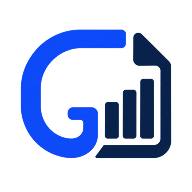
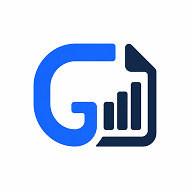
feat: main color 수정 및 pwa 사진 배경색 있는걸로 변경

diff --git a/src/theme/gudocs.js b/src/theme/gudocs.js
@@ -2,7 +2,7 @@
  * @generated by `astryx theme build` — do not edit manually.
  * Source: src\theme\gudocs-theme.ts
  * Command: astryx theme build src\theme\gudocs-theme.ts --out src\theme\gudocs-theme.css
- * Generated: 2026-07-20T07:44:10.546Z
+ * Generated: 2026-08-13T03:19:43.851Z
  */
 
 /**
@@ -96,31 +96,31 @@ export const gudocsTheme = {
     "--color-syntax-property": "light-dark(#005348, #83dac9)",
     "--color-syntax-punctuation": "light-dark(#a3a3a3, #525252)",
     "--color-syntax-background": "light-dark(#fafafa, #0a0a0a)",
-    "--color-background-surface": "light-dark(#FCFCFF, #1B1B22)",
-    "--color-background-body": "light-dark(#F0F0F9, #111018)",
-    "--color-background-card": "light-dark(#FCFCFF, #1B1B22)",
-    "--color-background-popover": "light-dark(#FCFCFF, #303037)",
-    "--color-background-muted": "light-dark(#1B1B220D, #1B1B2280)",
-    "--color-accent": "light-dark(#0064FF, #C2C0FF)",
+    "--color-background-surface": "light-dark(#FDFBFF, #1C1B21)",
+    "--color-background-body": "light-dark(#F1EFF9, #121017)",
+    "--color-background-card": "light-dark(#FDFBFF, #1C1B21)",
+    "--color-background-popover": "light-dark(#FDFBFF, #312F37)",
+    "--color-background-muted": "light-dark(#1C1B210D, #1C1B2180)",
+    "--color-accent": "light-dark(#1F4DF3, #C9BEFF)",
     "--color-accent-muted": "light-dark(color-mix(in srgb, var(--color-accent) 20%, transparent), color-mix(in srgb, var(--color-accent) 25%, transparent))",
-    "--color-neutral": "light-dark(#1B1B221A, #E2E1EB33)",
-    "--color-overlay": "light-dark(#1B1B2266, #1B1B2299)",
-    "--color-overlay-hover": "light-dark(#1B1B220D, #FFFFFF0D)",
-    "--color-overlay-pressed": "light-dark(#1B1B221A, #FFFFFF1A)",
+    "--color-neutral": "light-dark(#1C1B211A, #E3E1EB33)",
+    "--color-overlay": "light-dark(#1C1B2166, #1C1B2199)",
+    "--color-overlay-hover": "light-dark(#1C1B210D, #FFFFFF0D)",
+    "--color-overlay-pressed": "light-dark(#1C1B211A, #FFFFFF1A)",
     "--color-text-primary": "light-dark(#202632, #E2E1EB)",
-    "--color-text-secondary": "light-dark(#464552, #ABAAB8)",
-    "--color-text-disabled": "light-dark(#908F9D, #5E5D6A)",
+    "--color-text-secondary": "light-dark(#484552, #ACA9B8)",
+    "--color-text-disabled": "light-dark(#928F9D, #5F5D6A)",
     "--color-text-accent": "var(--color-accent)",
     "--color-on-dark": "#ffffff",
     "--color-on-light": "#171717",
-    "--color-on-accent": "light-dark(#FFFFFF, #002989)",
+    "--color-on-accent": "light-dark(#FFFFFF, #002298)",
     "--color-on-success": "light-dark(#ffffff, #171717)",
     "--color-on-error": "light-dark(#ffffff, #171717)",
     "--color-on-warning": "#171717",
     "--color-icon-accent": "var(--color-accent)",
-    "--color-icon-primary": "light-dark(#1B1B22, #E2E1EB)",
-    "--color-icon-secondary": "light-dark(#464552, #ABAAB8)",
-    "--color-icon-disabled": "light-dark(#908F9D, #5E5D6A)",
+    "--color-icon-primary": "light-dark(#1C1B21, #E3E1EB)",
+    "--color-icon-secondary": "light-dark(#484552, #ACA9B8)",
+    "--color-icon-disabled": "light-dark(#928F9D, #5F5D6A)",
     "--color-success": "light-dark(#007004, #9fe59b)",
     "--color-error": "light-dark(#a50c25, #ffc6c1)",
     "--color-warning": "light-dark(#745b00, #fdcf4f)",
@@ -129,7 +129,7 @@ export const gudocsTheme = {
     "--color-warning-muted": "light-dark(#f8da9d, #deb4333D)",
     "--color-border": "light-dark(#2026321A, #F0F0F91A)",
     "--color-border-emphasized": "light-dark(#20263259, #464552)",
-    "--color-skeleton": "light-dark(#ABAAB8, #464552)",
+    "--color-skeleton": "light-dark(#ACA9B8, #484552)",
     "--color-shadow": "light-dark(#0000001A, #0000004D)",
     "--color-tint-hover": "light-dark(black, white)",
     "--color-background-red": "light-dark(#facecb, #ff9e973D)",
@@ -186,8 +186,8 @@ export const gudocsTheme = {
     "--shadow-inset-success": "inset 0px 0px 0px 2px #1981004D",
     "--shadow-inset-warning": "inset 0px 0px 0px 2px #ffce2f4D",
     "--shadow-inset-error": "inset 0px 0px 0px 2px #e33f4a4D",
-    "--color-background-inverted": "light-dark(#1B1B22, #FCFCFF)",
-    "--color-track": "light-dark(#ABAAB8, #464552)",
+    "--color-background-inverted": "light-dark(#1C1B21, #FDFBFF)",
+    "--color-track": "light-dark(#ACA9B8, #484552)",
     "--radius-chat": "42px"
   },
 

diff --git a/src/theme/gudocs-theme.css b/src/theme/gudocs-theme.css
@@ -2,7 +2,7 @@
  * @generated by `astryx theme build` — do not edit manually.
  * Source: src\theme\gudocs-theme.ts
  * Command: astryx theme build src\theme\gudocs-theme.ts --out src\theme\gudocs-theme.css
- * Generated: 2026-07-20T07:44:10.546Z
+ * Generated: 2026-08-13T03:19:43.851Z
  */
 
 @layer reset {
@@ -163,31 +163,31 @@
     --color-syntax-property: light-dark(#005348, #83dac9);
     --color-syntax-punctuation: light-dark(#a3a3a3, #525252);
     --color-syntax-background: light-dark(#fafafa, #0a0a0a);
-    --color-background-surface: light-dark(#FCFCFF, #1B1B22);
-    --color-background-body: light-dark(#F0F0F9, #111018);
-    --color-background-card: light-dark(#FCFCFF, #1B1B22);
-    --color-background-popover: light-dark(#FCFCFF, #303037);
-    --color-background-muted: light-dark(#1B1B220D, #1B1B2280);
-    --color-accent: light-dark(#0064FF, #C2C0FF);
+    --color-background-surface: light-dark(#FDFBFF, #1C1B21);
+    --color-background-body: light-dark(#F1EFF9, #121017);
+    --color-background-card: light-dark(#FDFBFF, #1C1B21);
+    --color-background-popover: light-dark(#FDFBFF, #312F37);
+    --color-background-muted: light-dark(#1C1B210D, #1C1B2180);
+    --color-accent: light-dark(#1F4DF3, #C9BEFF);
     --color-accent-muted: light-dark(color-mix(in srgb, var(--color-accent) 20%, transparent), color-mix(in srgb, var(--color-accent) 25%, transparent));
-    --color-neutral: light-dark(#1B1B221A, #E2E1EB33);
-    --color-overlay: light-dark(#1B1B2266, #1B1B2299);
-    --color-overlay-hover: light-dark(#1B1B220D, #FFFFFF0D);
-    --color-overlay-pressed: light-dark(#1B1B221A, #FFFFFF1A);
+    --color-neutral: light-dark(#1C1B211A, #E3E1EB33);
+    --color-overlay: light-dark(#1C1B2166, #1C1B2199);
+    --color-overlay-hover: light-dark(#1C1B210D, #FFFFFF0D);
+    --color-overlay-pressed: light-dark(#1C1B211A, #FFFFFF1A);
     --color-text-primary: light-dark(#202632, #E2E1EB);
-    --color-text-secondary: light-dark(#464552, #ABAAB8);
-    --color-text-disabled: light-dark(#908F9D, #5E5D6A);
+    --color-text-secondary: light-dark(#484552, #ACA9B8);
+    --color-text-disabled: light-dark(#928F9D, #5F5D6A);
     --color-text-accent: var(--color-accent);
     --color-on-dark: #ffffff;
     --color-on-light: #171717;
-    --color-on-accent: light-dark(#FFFFFF, #002989);
+    --color-on-accent: light-dark(#FFFFFF, #002298);
     --color-on-success: light-dark(#ffffff, #171717);
     --color-on-error: light-dark(#ffffff, #171717);
     --color-on-warning: #171717;
     --color-icon-accent: var(--color-accent);
-    --color-icon-primary: light-dark(#1B1B22, #E2E1EB);
-    --color-icon-secondary: light-dark(#464552, #ABAAB8);
-    --color-icon-disabled: light-dark(#908F9D, #5E5D6A);
+    --color-icon-primary: light-dark(#1C1B21, #E3E1EB);
+    --color-icon-secondary: light-dark(#484552, #ACA9B8);
+    --color-icon-disabled: light-dark(#928F9D, #5F5D6A);
     --color-success: light-dark(#007004, #9fe59b);
     --color-error: light-dark(#a50c25, #ffc6c1);
     --color-warning: light-dark(#745b00, #fdcf4f);
@@ -196,7 +196,7 @@
     --color-warning-muted: light-dark(#f8da9d, #deb4333D);
     --color-border: light-dark(#2026321A, #F0F0F91A);
     --color-border-emphasized: light-dark(#20263259, #464552);
-    --color-skeleton: light-dark(#ABAAB8, #464552);
+    --color-skeleton: light-dark(#ACA9B8, #484552);
     --color-shadow: light-dark(#0000001A, #0000004D);
     --color-tint-hover: light-dark(black, white);
     --color-background-red: light-dark(#facecb, #ff9e973D);
@@ -253,8 +253,8 @@
     --shadow-inset-success: inset 0px 0px 0px 2px #1981004D;
     --shadow-inset-warning: inset 0px 0px 0px 2px #ffce2f4D;
     --shadow-inset-error: inset 0px 0px 0px 2px #e33f4a4D;
-    --color-background-inverted: light-dark(#1B1B22, #FCFCFF);
-    --color-track: light-dark(#ABAAB8, #464552);
+    --color-background-inverted: light-dark(#1C1B21, #FDFBFF);
+    --color-track: light-dark(#ACA9B8, #484552);
     --radius-chat: 42px;
   }
 

diff --git a/src/theme/gudocs-theme.ts b/src/theme/gudocs-theme.ts
@@ -14,7 +14,7 @@ import { neutralTheme } from "@astryxdesign/theme-neutral";
  * 그대로 쓰면 대비가 3.5:1까지 떨어져 본문 기준(4.5:1)에 미달한다.
  *
  * 대비 검증 (light):
- *   흰색 on #0064FF      → 4.92:1  (본문 AA 통과)
+ *   흰색 on #1F4DF3      → 6.15:1  (본문 AA 통과)
  *   #202632 on #FCFCFF   → 14.8:1  (AAA 통과)
  */
 export const gudocsTheme = defineTheme({
@@ -22,7 +22,7 @@ export const gudocsTheme = defineTheme({
   extends: neutralTheme,
 
   color: {
-    accent: "#0064FF", // Toss Blue
+    accent: "#1F4DF3", // 브랜드 블루
     neutralStyle: "cool",
   },
 
@@ -47,7 +47,7 @@ export const gudocsTheme = defineTheme({
   radius: { base: 6, multiplier: 1 },
 
   tokens: {
-    "--color-accent": ["#0064FF", "#C2C0FF"],
+    "--color-accent": ["#1F4DF3", "#C9BEFF"],
     "--color-text-primary": ["#202632", "#E2E1EB"], // Toss Gray
 
     // 테두리·구분선도 Toss Gray 기준으로. 시스템 기본값과 동일한 알파 방식을

diff --git a/src/theme/gudocs.d.ts b/src/theme/gudocs.d.ts
@@ -2,7 +2,7 @@
  * @generated by `astryx theme build` — do not edit manually.
  * Source: src\theme\gudocs-theme.ts
  * Command: astryx theme build src\theme\gudocs-theme.ts --out src\theme\gudocs-theme.css
- * Generated: 2026-07-20T07:44:10.558Z
+ * Generated: 2026-08-13T03:19:43.852Z
  */
 
 /// <reference path="./gudocs.variants.d.ts" />

diff --git a/src/theme/gudocs.variants.d.ts b/src/theme/gudocs.variants.d.ts
@@ -2,7 +2,7 @@
  * @generated by `astryx theme build` — do not edit manually.
  * Source: src\theme\gudocs-theme.ts
  * Command: astryx theme build src\theme\gudocs-theme.ts --out src\theme\gudocs-theme.css
- * Generated: 2026-07-20T07:44:10.542Z
+ * Generated: 2026-08-13T03:19:43.850Z
  */
 
 // Generated by astryx theme build
